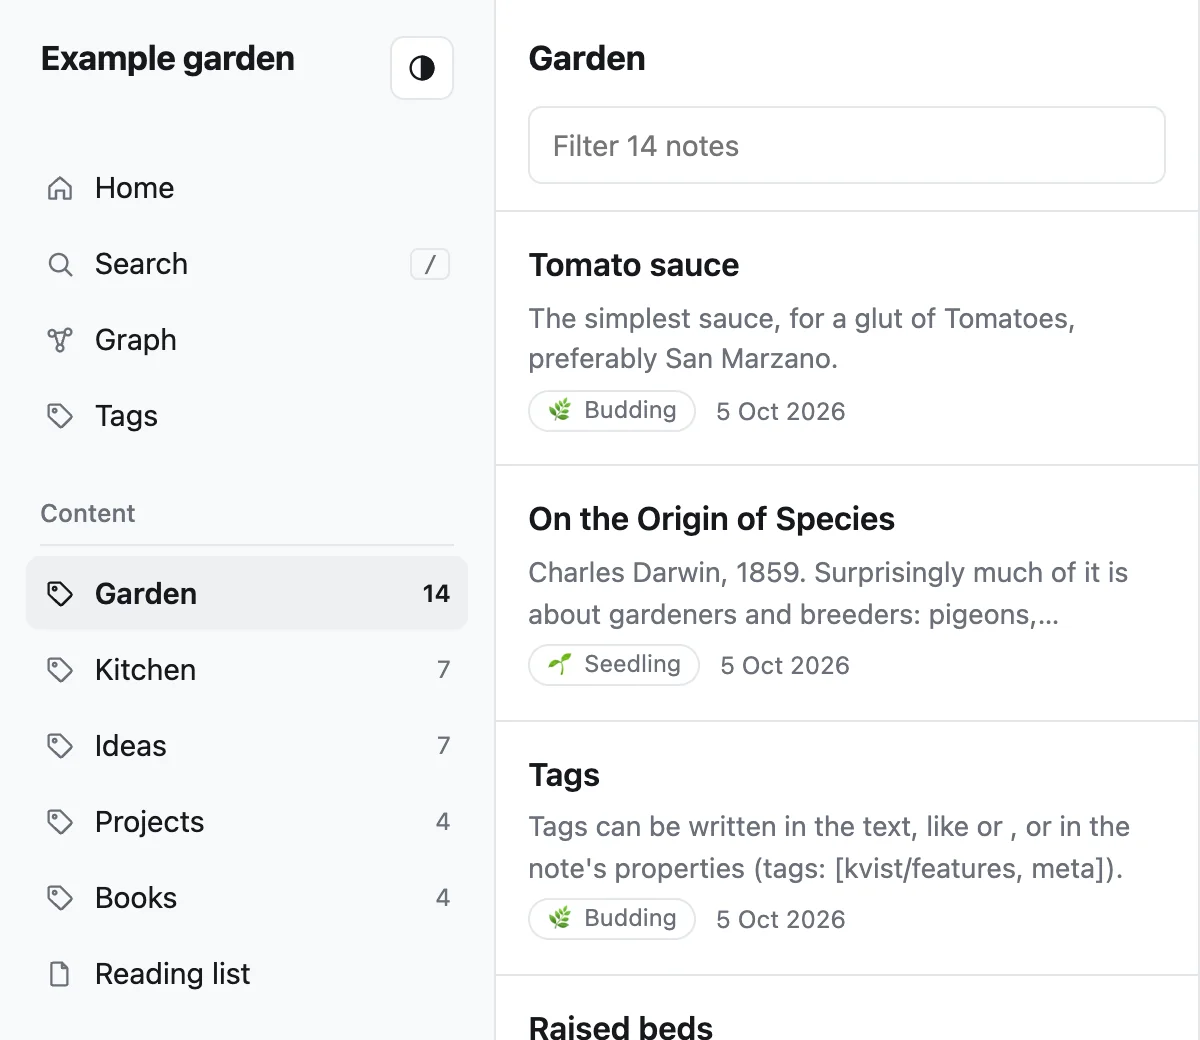
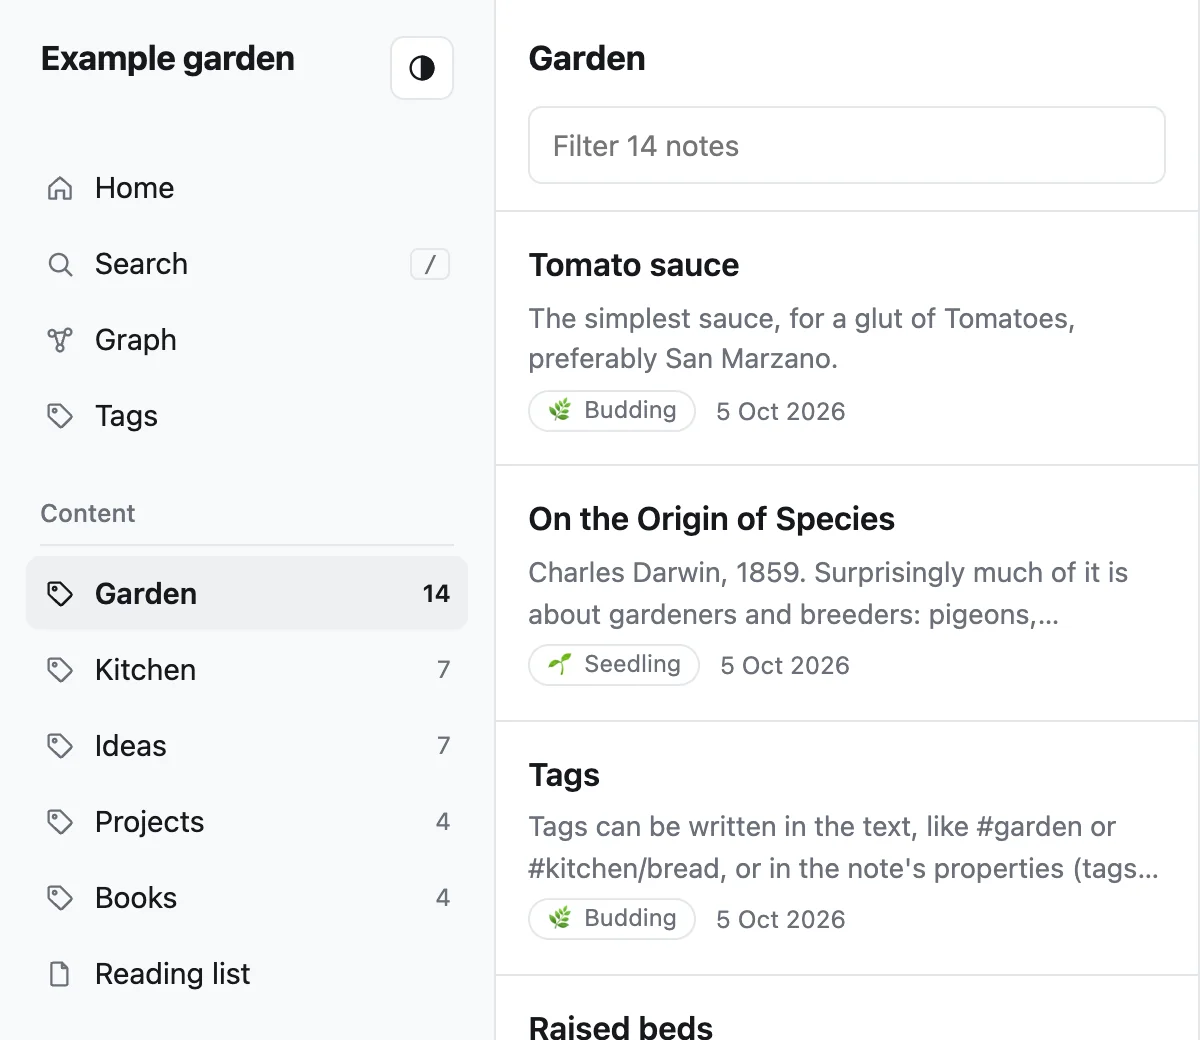
Keep tags in descriptions taken from the first paragraph
A note without a description property gets its first paragraph as one,
but it was read before links and tags were resolved. Every tag still had
an empty URL then, which is how a hidden control tag looks, so all of
them were dropped: "like #garden or #kitchen/bread" became "like or ,".
The first paragraph is now read right after the note is resolved, so
only #public and #private are left out, as on the page itself.

Also retakes the tag-groups screenshot, which showed the broken text.

Changed region(s): [[0.4317, 0.7692, 0.9558, 0.8615]]

diff --git a/internal/model/build.go b/internal/model/build.go
@@ -227,10 +227,7 @@ func (b *builder) makeNotes(s *Site) {
 		if n.Created.After(n.Updated) {
 			n.Updated = n.Created
 		}
-		n.Description = firstString(fm, "description", "summary")
-		if n.Description == "" {
-			n.Description = truncate(ns.doc.FirstParagraph(), 200)
-		}
+		n.Description = firstString(fm, "description", "summary") // else the first paragraph, once resolved (render)
 		for k, v := range fm {
 			if expose[k] {
 				if n.Params == nil {
@@ -393,6 +390,11 @@ func (b *builder) render(s *Site) {
 		ns := b.notes[n.Path]
 		r := &noteResolver{b: b, from: ns, stack: []string{n.Path}, top: true, root: n}
 		ns.doc.Resolve(r)
+		if n.Description == "" {
+			// After Resolve, so tags keep their text and only control tags
+			// are left out.
+			n.Description = truncate(ns.doc.FirstParagraph(), 200)
+		}
 		ns.doc.StrictLineBreaks = b.strict
 		html, err := ns.doc.Render()
 		if err != nil {

diff --git a/internal/model/description_test.go b/internal/model/description_test.go
@@ -1,0 +1,13 @@
+package model
+
+import "testing"
+
+func TestDescriptionKeepsTags(t *testing.T) {
+	site := buildVault(t, map[string]string{
+		"Kvist/Tags.md": "Tags like #garden or #kitchen/bread, but not #public, in a [[Missing|link]].\n\nMore.",
+	})
+	got := site.Note("Kvist/Tags.md").Description
+	if want := "Tags like #garden or #kitchen/bread, but not , in a link."; got != want {
+		t.Errorf("description = %q, want %q", got, want)
+	}
+}
